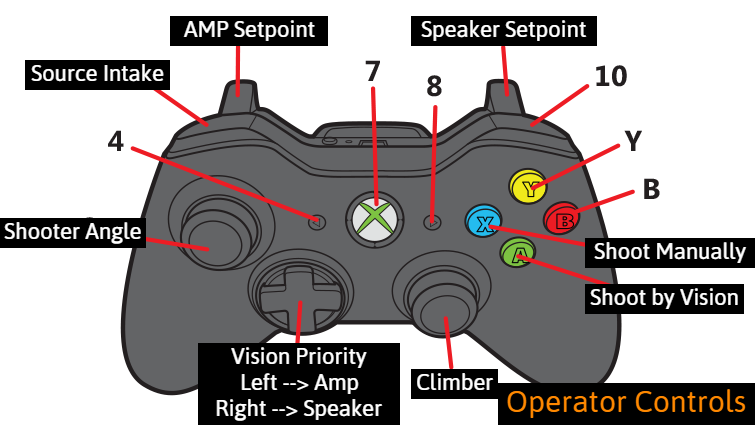
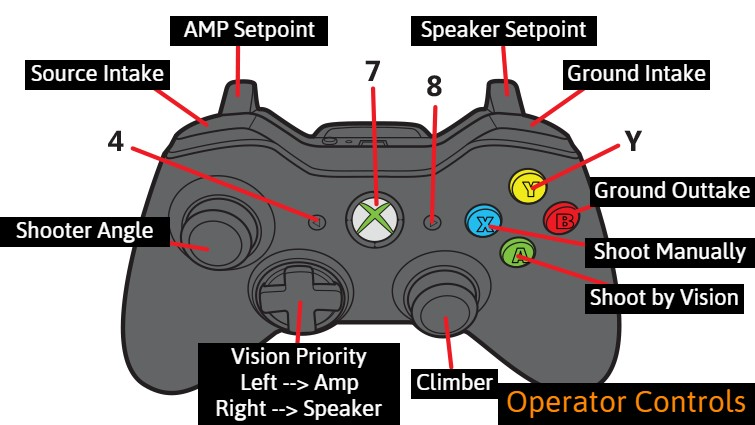
Gave driver priority in ground intake and outtake Updated controller mappings

diff --git a/src/main/java/org/bitbuckets/RobotContainer.java b/src/main/java/org/bitbuckets/RobotContainer.java
@@ -352,11 +352,10 @@ public class RobotContainer {
         operatorInput.autoAlignHold.whileTrue(new MoveToAlignCommand(driveSubsystem, visionSubsystem, holonomicDriveController, odometrySubsystem));
         operatorInput.isTeleop.and(climberThreshold).whileTrue(new MoveClimberCommand(climberSubsystem, operatorInput));
 
-        operatorInput.groundIntakeHold.whileTrue(new FinishGroundIntakeCommand(noteManagementSubsystem, groundIntakeSubsystem));
-        operatorInput.groundOuttakeHold.whileTrue(new GroundOuttakeCommand(groundIntakeSubsystem, noteManagementSubsystem));
-
-        operatorInput.groundIntakeHoldOp.whileTrue(new FinishGroundIntakeCommand(noteManagementSubsystem, groundIntakeSubsystem));
-        operatorInput.groundOuttakeHoldOp.whileTrue(new GroundOuttakeCommand(groundIntakeSubsystem, noteManagementSubsystem));
+        operatorInput.groundIntakeHold.or(operatorInput.groundIntakeHoldOp).and(operatorInput.groundOuttakeHold.negate())
+                .whileTrue(new FinishGroundIntakeCommand(noteManagementSubsystem, groundIntakeSubsystem));
+        operatorInput.groundOuttakeHold.or(operatorInput.groundOuttakeHoldOp).and(operatorInput.groundIntakeHold.negate())
+                .whileTrue(new GroundOuttakeCommand(groundIntakeSubsystem, noteManagementSubsystem));
 
 
         operatorInput.resetGyroPress.onTrue(Commands.runOnce(() -> {

diff --git a/src/main/java/org/bitbuckets/OperatorInput.java b/src/main/java/org/bitbuckets/OperatorInput.java
@@ -38,9 +38,9 @@ public class OperatorInput {
     final Trigger autoAlignHold = driver.a();
     final Trigger xButtonToggle = driver.x();
     final Trigger groundIntakeHold = driver.rightBumper();
-    final Trigger groundOuttakeHold = driver.leftBumper(); //TODO Assign ground outtake to another button besides left bumper (left bumper already used for ground intake)
+    final Trigger groundOuttakeHold = driver.leftBumper();
     final Trigger groundIntakeHoldOp = operatorControl.rightBumper();
-    final Trigger groundOuttakeHoldOp = operatorControl.leftBumper(); //TODO Assign ground outtake to another button besides left bumper (left bumper already used for ground intake)
+    final Trigger groundOuttakeHoldOp = operatorControl.b();
     final Trigger resetGyroPress = driver.start();
 
 
